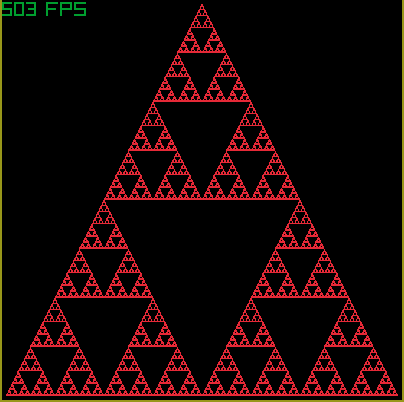
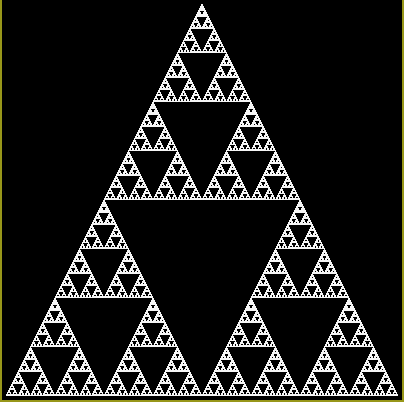
Draw white triangles instead of red rectangles

Changed region(s): [[0.0, 0.0, 0.9802, 0.9851], [0.0, 0.0, 0.2079, 0.0597]]

diff --git a/frac.c b/frac.c
@@ -25,15 +25,12 @@
     } while (0)
 
 void draw_triangle_at_rec(const Rectangle rec) {
-	// printf("+%f+%f:%fx%f\n", rec.x, rec.y, rec.width, rec.height);
-	DrawRectangleLinesEx(rec, 1.0, RED);
-	// DrawCircleLines(rec.x + rec.width / 2, rec.y + rec.height / 2, rec.width / 2, RAYWHITE);
-	// DrawTriangleLines(
-	// 	(Vector2){rec.x, rec.y + rec.height},
-	// 	(Vector2){rec.x + rec.width / 2.0, rec.y},
-	// 	(Vector2){rec.x + rec.width, rec.y + rec.height},
-	// 	RAYWHITE
-	// );
+	DrawTriangleLines(
+		(Vector2){rec.x, rec.y + rec.height},
+		(Vector2){rec.x + rec.width / 2.0, rec.y},
+		(Vector2){rec.x + rec.width, rec.y + rec.height},
+		RAYWHITE
+	);
 }
 
 void divide_rec(const Rectangle rec, Rectangle *out_recs) {
